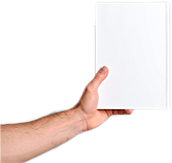
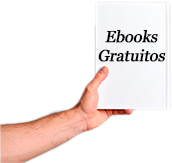
update 15/07

diff --git a/concursosPlay/gratuito.html b/concursosPlay/gratuito.html
@@ -1,0 +1,47 @@
+<!DOCTYPE html>
+<html lang="en">
+
+<head>
+    <meta charset="UTF-8">
+    <meta name="viewport" content="width=device-width, initial-scale=1.0">
+    <title>Conteúdo Gratuito</title>
+    <link href="https://cdn.jsdelivr.net/npm/bootstrap@5.3.0/dist/css/bootstrap.min.css" rel="stylesheet">
+    <link rel="stylesheet" href="css/gratuito.css">
+    <link rel="preconnect" href="https://fonts.googleapis.com">
+<link rel="preconnect" href="https://fonts.gstatic.com" crossorigin>
+<link href="https://fonts.googleapis.com/css2?family=DM+Serif+Display:ital@0;1&family=Montserrat:ital,wght@0,100..900;1,100..900&family=Open+Sans:ital,wght@0,300..800;1,300..800&display=swap" rel="stylesheet">
+</head>
+
+<body>
+    <section id="titulo">
+        <div class="container">
+            <div class="texto-com-fundo">
+                <p>
+                <h1 class="dm-serif-display-regular">Conteúdo Gratuito</h1>
+                </p>
+            </div>
+    </section>
+
+
+
+    <section id="conteudo" class="py-5">
+        <div class="container">
+            <div class="row align-items-start">
+                <!-- Coluna da imagem -->
+                <div class="col-6 col-md-3 mb-3 ">
+                    <img src="imagens/editaisphoto.png" alt = "Editais abertos" class="img-fluid">
+                </div>
+                <div class="col-6 col-md-3 mb-3 ">
+                    <img src="imagens/200milquestoes.png" alt="+200mil" class="img-fluid">
+                </div>
+                <div class="col-6 col-md-3 mb-3 ">
+                    <img src="imagens/comopassei.png" alt="podcast" class="img-fluid">
+                </div>
+                <div class="col-6 col-md-3 mb-3 ">
+                    <img src="imagens/ebooksgratuitos.png" alt="ebooks" class="img-fluid">
+                </div>
+
+
+</body>
+
+</html>

diff --git a/concursosPlay/css/gratuito.css b/concursosPlay/css/gratuito.css
@@ -1,63 +1,45 @@
-.col-md-4 {
-    height: 80%;
-    width: 80%;
-}
-
-.homem1 img {
-    padding: 100px;
-    margin-left: -50px;
-    height: 800px;
-
-}
 
 .texto-com-fundo {
     background-color: #f2e9ce;
     border-radius: 30px;
-    padding: 10px;
-    display: inline-block;
-    margin-inline: 380px;
+    padding: 10px 20px;
+    display: block;
+    margin: 0 auto;
     color: #ff6b00;
+    text-align: center;
 }
-
-.d-flex {
-    height: 100%;
-}
-
 .menu-topo {
     position: fixed;
     top: 0;
     left: 250;
     right: 0;
     z-index: 1030;
-    /*background-color: #226eb9;*/
     padding: 10px 20px;
     margin-top: -250px;
     margin-right: 200px;
-
 }
-
-.menu-topo .dropdown {
-    margin-right: 100px;
-}
-
 body {
     padding-top: 70px;
 }
-
 body {
     background-color: #1e2a38;
-    background: linear-gradient(135deg, #1e2a38, #7c4c0d);
-}
+    padding-top: 70px;
+    color: white;
+    background: linear-gradient(to right,#6c7271, #1e2a38);
+    height: 100vh;
+    margin: 0;
+    
 
-/*lembrar de mudar as cores dos botões*/
+}
 .dm-serif-display-regular {
     font-family: "DM Serif Display", serif;
     font-weight: 400;
     font-style: normal;
-}
-
-.dm-serif-display-regular-italic {
+  }
+  
+  .dm-serif-display-regular-italic {
     font-family: "DM Serif Display", serif;
     font-weight: 400;
     font-style: italic;
-}
+  }
+  

diff --git a/concursosPlay/index.html b/concursosPlay/index.html
@@ -5,7 +5,7 @@
     <meta charset="UTF-8">
     <meta http-equiv="X-UA-Compatible" content="IE=edge">
     <meta name="viewport" content="width=device-width, initial-scale=1.0">
-    <title>Play</title>
+    <title>Cursos Preparatórios</title>
     <link href="https://cdn.jsdelivr.net/npm/bootstrap@5.3.6/dist/css/bootstrap.min.css" rel="stylesheet"
         integrity="sha384-4Q6Gf2aSP4eDXB8Miphtr37CMZZQ5oXLH2yaXMJ2w8e2ZtHTl7GptT4jmndRuHDT" crossorigin="anonymous">
     <link rel="stylesheet" href="https://cdn.jsdelivr.net/npm/bootstrap-icons@1.13.1/font/bootstrap-icons.min.css">
@@ -18,7 +18,7 @@
         <div class="container">
             <div class="texto-com-fundo">
             <p>
-            <h1>Cursos Preparatórios</h1>
+            <h1 class="dm-serif-display-regular">Cursos Preparatórios</h1>
             </p>
         </div>
     </section>
